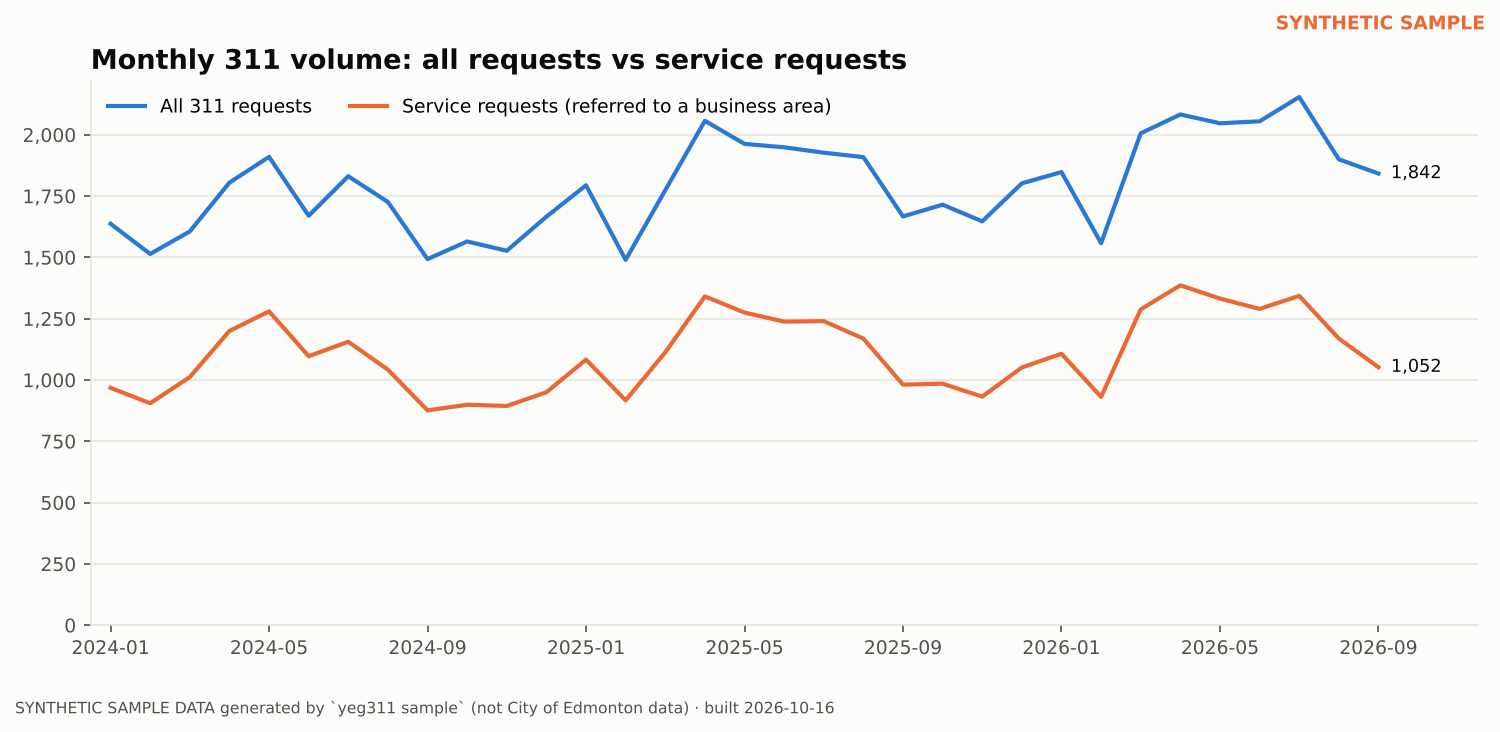
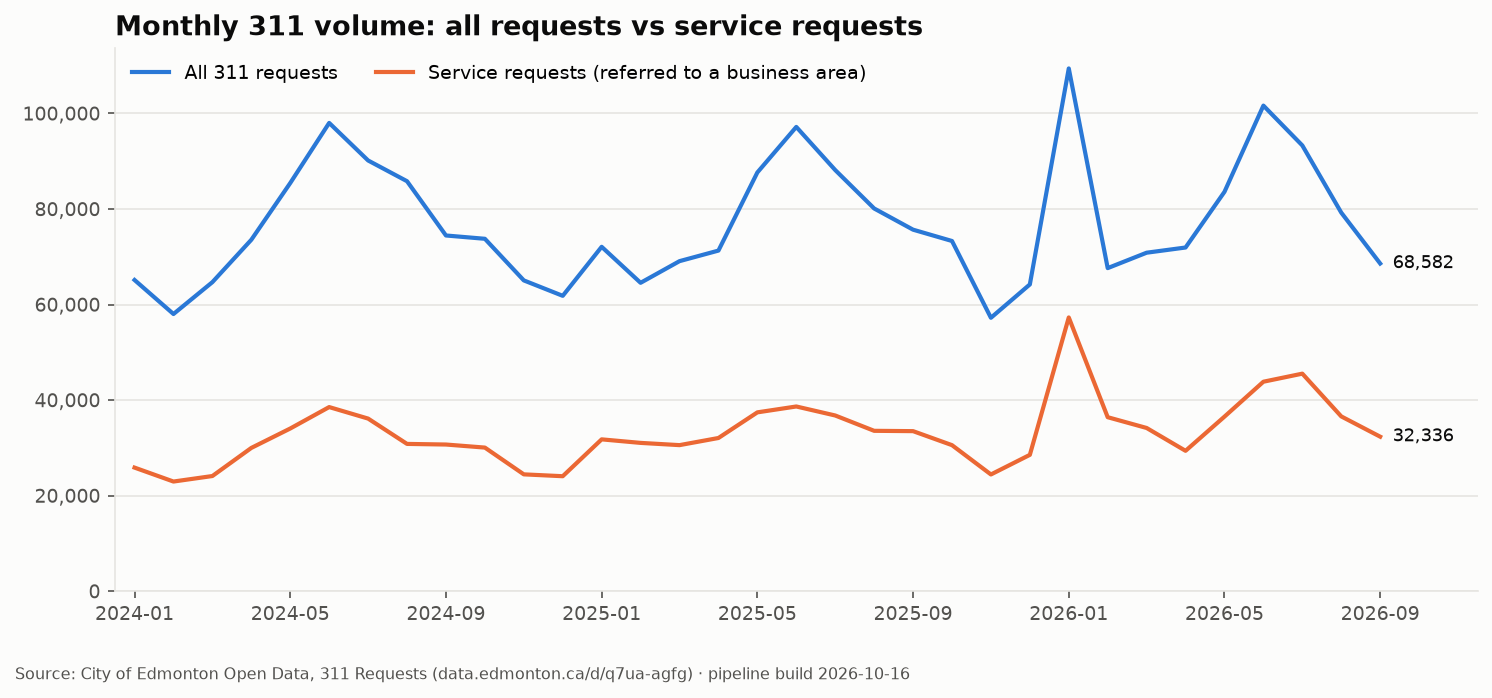
Refresh preview charts and latest numbers from live 311 data (2026-10-16)

diff --git a/docs/latest_stats.md b/docs/latest_stats.md
@@ -1,61 +1,61 @@
 # Latest numbers
 
-Placeholder generated from the SYNTHETIC sample (`yeg311 sample`). The scheduled **Refresh data** workflow replaces this file and the charts in `docs/img/charts` with figures from the live City of Edmonton dataset on its first run.
+Generated by the scheduled refresh workflow from the live dataset (mode: full). Updated weekly.
 
 ```
 Headline numbers
-  Requests in data            : 60,000  (2024-01-01 to 2026-10-15)
-  Service requests (referred) : 36,981
-  Open service requests       : 691
-  SLA met (illustrative)      : 69.0%
-  Median resolution (SR)      : 9.3 days
-  Mobile App share            : 30.9%
+  Requests in data            : 2,568,376  (2024-01-01 to 2026-10-13)
+  Service requests (referred) : 1,104,400
+  Open service requests       : 36,103
+  SLA met (illustrative)      : 84.4%
+  Median resolution (SR)      : 1.5 days
+  Mobile App share            : 22.9%
 
 Top service-request categories
-      3,997  Bylaw Complaints (Community Standards - Muni. Enforcement)  median 18.4 days
-      3,972  Potholes (Roadway Maintenance)  median 13.8 days
-      3,334  Public Parking Complaints (Parking Enforcement)  median 6.0 days
-      2,975  Collection and Disposal Services (Waste)  median 2.2 days
-      2,869  Maintenance - Snow and Ice (Roadway Maintenance)  median 28.0 days
-      1,529  Litter (Roadway Maintenance)  median 5.5 days
-      1,095  Off Schedule (Transit)  median 9.8 days
-      1,066  Traffic Signals and Street Lights (Traffic)  median 14.7 days
-      1,048  Pruning (Forestry)  median 83.0 days
-        852  Street Signs (Traffic)  median 14.9 days
+    175,235  Public Parking Complaints (Parking Enforcement)  median 0.3 days
+     88,864  Bylaw Complaints (Community Standards - Muni. Enforcement)  median 17.7 days
+     75,438  Collection and Disposal Services (Waste)  median 0.9 days
+     48,360  Monthly Payment Plan (TAX - Taxation)  median 0.6 days
+     48,059  Maintenance - Snow and Ice (Roadway Maintenance)  median 1.6 days
+     36,683  Potholes (Roadway Maintenance)  median 1.6 days
+     34,523  Encampments (Park Rangers)  median 3.4 days
+     27,333  Traffic Signals and Street Lights (Traffic)  median 3.7 days
+     27,044  Litter (Roadway Maintenance)  median 2.9 days
+     19,956  Animal Complaints (Animal Control)  median 3.8 days
 
 Monthly volume
-  2024-01      1,637 total        968 service requests
-  2024-02      1,514 total        905 service requests
-  2024-03      1,606 total      1,012 service requests
-  2024-04      1,805 total      1,200 service requests
-  2024-05      1,910 total      1,280 service requests
-  2024-06      1,670 total      1,097 service requests
-  2024-07      1,831 total      1,156 service requests
-  2024-08      1,726 total      1,042 service requests
-  2024-09      1,493 total        876 service requests
-  2024-10      1,565 total        899 service requests
-  2024-11      1,527 total        894 service requests
-  2024-12      1,666 total        950 service requests
-  2025-01      1,794 total      1,083 service requests
-  2025-02      1,490 total        917 service requests
-  2025-03      1,774 total      1,113 service requests
-  2025-04      2,057 total      1,341 service requests
-  2025-05      1,963 total      1,275 service requests
-  2025-06      1,949 total      1,238 service requests
-  2025-07      1,927 total      1,240 service requests
-  2025-08      1,909 total      1,169 service requests
-  2025-09      1,667 total        981 service requests
-  2025-10      1,715 total        985 service requests
-  2025-11      1,647 total        932 service requests
-  2025-12      1,802 total      1,051 service requests
-  2026-01      1,848 total      1,107 service requests
-  2026-02      1,558 total        931 service requests
-  2026-03      2,006 total      1,288 service requests
-  2026-04      2,083 total      1,386 service requests
-  2026-05      2,047 total      1,332 service requests
-  2026-06      2,055 total      1,290 service requests
-  2026-07      2,154 total      1,343 service requests
-  2026-08      1,900 total      1,169 service requests
-  2026-09      1,842 total      1,052 service requests
-  2026-10        863 total        479 service requests
+  2024-01     65,132 total     25,864 service requests
+  2024-02     58,012 total     22,946 service requests
+  2024-03     64,683 total     24,101 service requests
+  2024-04     73,554 total     29,984 service requests
+  2024-05     85,429 total     34,047 service requests
+  2024-06     98,009 total     38,533 service requests
+  2024-07     90,149 total     36,124 service requests
+  2024-08     85,808 total     30,823 service requests
+  2024-09     74,449 total     30,694 service requests
+  2024-10     73,757 total     30,053 service requests
+  2024-11     65,048 total     24,449 service requests
+  2024-12     61,818 total     24,061 service requests
+  2025-01     72,078 total     31,775 service requests
+  2025-02     64,544 total     31,036 service requests
+  2025-03     69,076 total     30,567 service requests
+  2025-04     71,289 total     32,060 service requests
+  2025-05     87,643 total     37,427 service requests
+  2025-06     97,172 total     38,657 service requests
+  2025-07     88,146 total     36,772 service requests
+  2025-08     80,101 total     33,563 service requests
+  2025-09     75,664 total     33,495 service requests
+  2025-10     73,295 total     30,563 service requests
+  2025-11     57,223 total     24,427 service requests
+  2025-12     64,203 total     28,533 service requests
+  2026-01    109,411 total     57,293 service requests
+  2026-02     67,619 total     36,413 service requests
+  2026-03     70,845 total     34,158 service requests
+  2026-04     71,932 total     29,377 service requests
+  2026-05     83,588 total     36,533 service requests
+  2026-06    101,635 total     43,841 service requests
+  2026-07     93,291 total     45,528 service requests
+  2026-08     79,234 total     36,580 service requests
+  2026-09     68,582 total     32,336 service requests
+  2026-10     25,957 total     11,787 service requests
 ```
